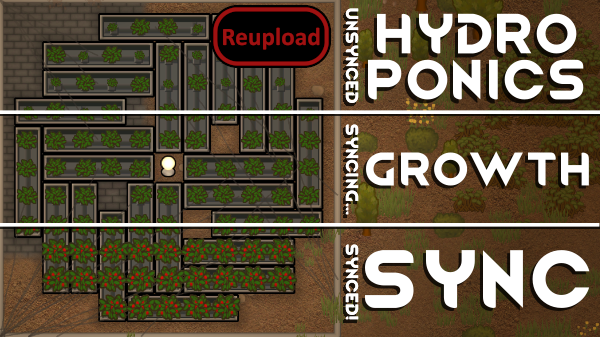
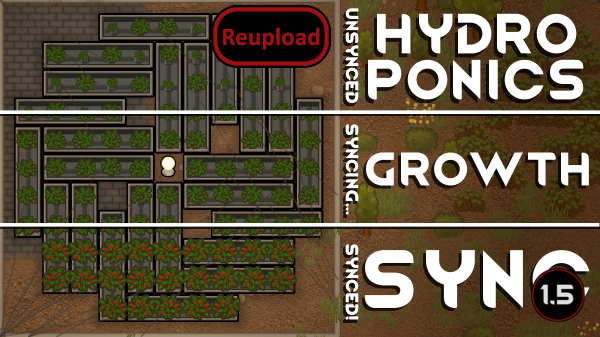
Mod updated for 1.5 and passed autotests

Changed region(s): [[0.87, 0.8012, 0.99, 0.9496]]

diff --git a/Source/HydroponicsGrowthSync/PlantGrowerGrowthSyncer.cs b/Source/HydroponicsGrowthSync/PlantGrowerGrowthSyncer.cs
@@ -1,25 +1,22 @@
 using System;
 using System.Collections.Generic;
 using System.Linq;
+using LudeonTK;
 using RimWorld;
 using UnityEngine;
 using Verse;
 
 namespace HydroponicsGrowthSync;
 
-public class PlantGrowerGrowthSyncer : MapComponent
+public class PlantGrowerGrowthSyncer(Map map) : MapComponent(map)
 {
     [TweakValue("PlantGrowerGrowthSyncer")]
-    public static bool DrawGroups = false;
+    public static readonly bool DrawGroups = false;
 
     [TweakValue("PlantGrowerGrowthSyncer", 0f, 2.2f)]
-    public static float SyncRatePerFullGrowth = 1.15f;
+    public static readonly float SyncRatePerFullGrowth = 1.15f;
 
-    private readonly List<List<Thing>> plantGrowerGroups = new List<List<Thing>>();
-
-    public PlantGrowerGrowthSyncer(Map map) : base(map)
-    {
-    }
+    private readonly List<List<Thing>> plantGrowerGroups = [];
 
     public override void MapComponentTick()
     {

diff --git a/README.md b/README.md
@@ -42,11 +42,13 @@ If you think there are any issues with how the mod identifies groups of building
 
 -  See if the the error persists if you just have this mod and its requirements active.
 -  If not, try adding your other mods until it happens again.
--  Post your error-log using https://steamcommunity.com/workshop/filedetails/?id=818773962]HugsLib and command Ctrl+F12
+-  Post your error-log using https://steamcommunity.com/workshop/filedetails/?id=818773962]HugsLib or the standalone https://steamcommunity.com/sharedfiles/filedetails/?id=2873415404]Uploader and command Ctrl+F12
 -  For best support, please use the Discord-channel for error-reporting.
 -  Do not report errors by making a discussion-thread, I get no notification of that.
 -  If you have the solution for a problem, please post it to the GitHub repository.
+-  Use https://github.com/RimSort/RimSort/releases/latest]RimSort to sort your mods
 
 
 
+https://steamcommunity.com/sharedfiles/filedetails/changelog/2018301976]![Image](https://img.shields.io/github/v/release/emipa606/HydroponicsGrowthSync?label=latest%20version&style=plastic&color=9f1111&labelColor=black)
 
